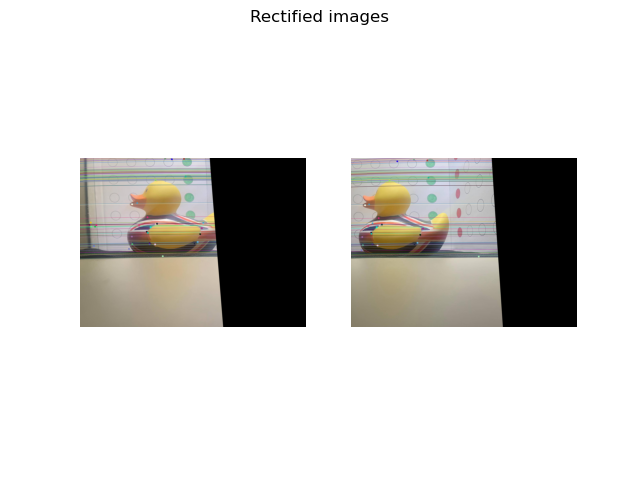
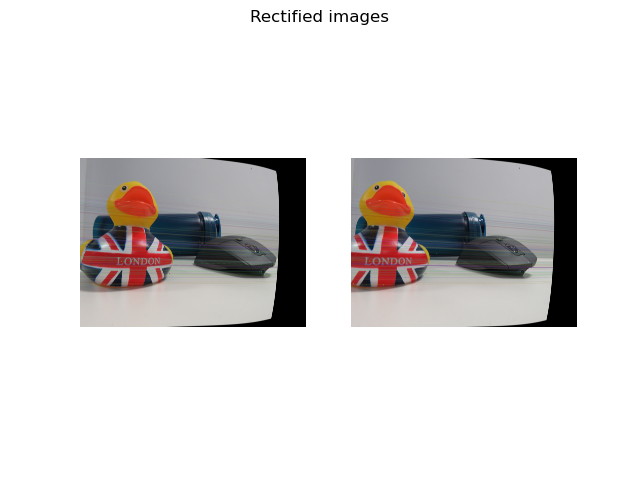
updated stereorect code

Changed region(s): [[0.5312, 0.3125, 0.875, 0.6875], [0.125, 0.3125, 0.4375, 0.6875]]

diff --git a/cw1/5_stereoRect/main.py b/cw1/5_stereoRect/main.py
@@ -12,8 +12,8 @@ camera_mat = np.array([
 ])
 
 dist = np.array([[0.02299966, -0.17932223, 0.00227571, -0.00475911, 0.26282244]])
-img1 = cv2.imread(f"./2.jpg")  #queryimage # left image
-img2 = cv2.imread(f"./0.jpg") #trainimage # right image
+img1 = cv2.imread(f"data/5.jpg")  #queryimage # left image
+img2 = cv2.imread(f"data/6.jpg") #trainimage # right image
 
 sift = cv2.SIFT_create()
 
@@ -85,18 +85,14 @@ lines2 = cv2.computeCorrespondEpilines(
 lines2 = lines2.reshape(-1, 3)
 img3, img4 = drawlines(img2, img1, lines2, pts2, pts1)
 
+plt.figure(1)
 plt.subplot(121), plt.axis('off'), plt.imshow(cv2.cvtColor(img5, cv2.COLOR_BGR2RGB))
 plt.subplot(122), plt.axis('off'), plt.imshow(cv2.cvtColor(img3, cv2.COLOR_BGR2RGB))
 plt.suptitle("Epilines in both images (Before Rectification)", y = 0.75)
 plt.savefig('outputs/epi.png')
-plt.show()
 
 h1, w1, _ = img1.shape
 h2, w2, _ = img2.shape
-
-# _, H1, H2 = cv2.stereoRectifyUncalibrated(
-#     np.float32(pts1), np.float32(pts2), F, imgSize=(w1, h1)
-# )
 
 r1, r2, p1, p2, q, roi1, roi2 = cv2.stereoRectify(camera_mat, dist, camera_mat, dist, (w1, h1), r_est, t_est)
 
@@ -104,12 +100,9 @@ map1x, map1y = cv2.initUndistortRectifyMap(camera_mat, dist, r1, camera_mat, (w1
 map2x, map2y = cv2.initUndistortRectifyMap(camera_mat, dist, r2, camera_mat, (w2, h2), cv2.CV_32FC1)
 
 
-# # Undistort (rectify) the images and save them
-# # Adapted from: https://stackoverflow.com/a/62607343
+# Rectify the images and save them
 img1_rectified = cv2.remap(img1, map1x, map1y, cv2.INTER_LINEAR)
 img2_rectified = cv2.remap(img2, map2x, map2y, cv2.INTER_LINEAR)
-# img1_rectified = cv2.warpPerspective(img1, map1, (w1, h1))
-# img2_rectified = cv2.warpPerspective(img2, p2, (w2, h2))
 
 cv2.imwrite("outputs/rectified_1.png", img1_rectified)
 cv2.imwrite("outputs/rectified_2.png", img2_rectified)
@@ -117,11 +110,11 @@ cv2.imwrite("outputs/rectified_2.png", img2_rectified)
 img1_rectified_show = cv2.cvtColor(img1_rectified, cv2.COLOR_BGR2RGB)
 img2_rectified_show = cv2.cvtColor(img2_rectified, cv2.COLOR_BGR2RGB)
 
+plt.figure(2)
 plt.subplot(121), plt.axis('off'), plt.imshow(img1_rectified_show)
 plt.subplot(122), plt.axis('off'), plt.imshow(img2_rectified_show)
 plt.suptitle("Rectified images")
 plt.savefig('outputs/rectified_images.png')
-plt.show()
 
 imgL = img1_rectified # downsample_image(img1_rectified, 3)
 imgR = img2_rectified # downsample_image(img2_rectified, 3)
@@ -133,8 +126,9 @@ imgRgray = cv2.cvtColor(imgR, cv2.COLOR_BGR2GRAY)
 
 stereo = cv2.StereoBM_create(numDisparities=16, blockSize=5)
 disparity = stereo.compute(imgLgray,imgRgray)
+plt.figure(3)
 plt.imshow(disparity, "gray")
-plt.savefig("outputs/depth_map.jpg")
+plt.savefig("outputs/depth_map.png")
 disparity = disparity.astype(np.float32)
 disparity /= 16.0
 # Convert disparity map to float32 and divide by 16 as shown in documentation
@@ -177,7 +171,7 @@ def create_point_cloud_file(vertices, colors, filename):
                 f.write(f"{item[0]} {item[1]} {item[2]} {int(item[3])} {int(item[4])} {int(item[5])}\n")
 
 
-output_file = "pointCloud.ply"
+output_file = "outputs/pointCloud.ply"
 
 # Generate point cloud file
 create_point_cloud_file(output_points, output_colors, output_file)

diff --git a/cw1/5_stereoRect/viz.py b/cw1/5_stereoRect/viz.py
@@ -1,5 +1,5 @@
 import open3d as o3d
-pcd = o3d.io.read_point_cloud("pointCloud.ply")
+pcd = o3d.io.read_point_cloud("outputs/pointCloud.ply")
 print("hi")
 print(pcd)
 
